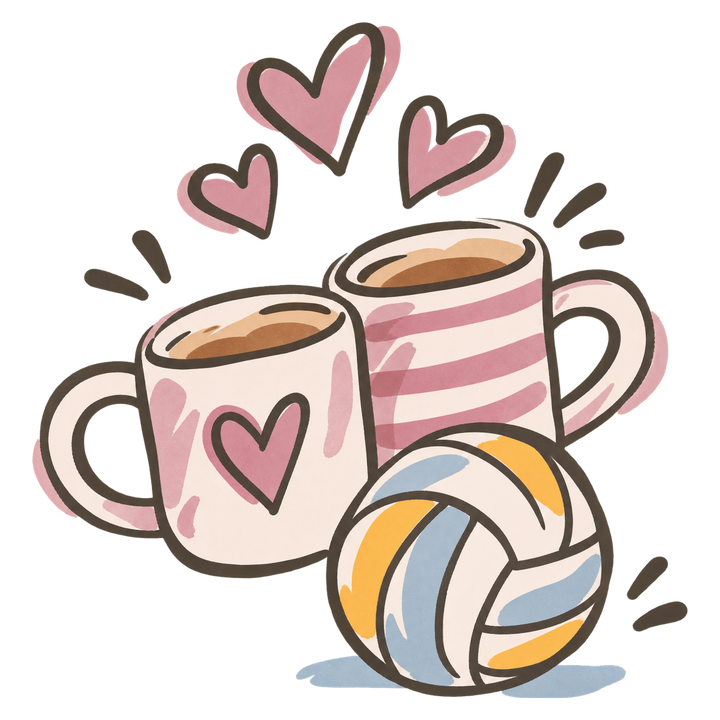
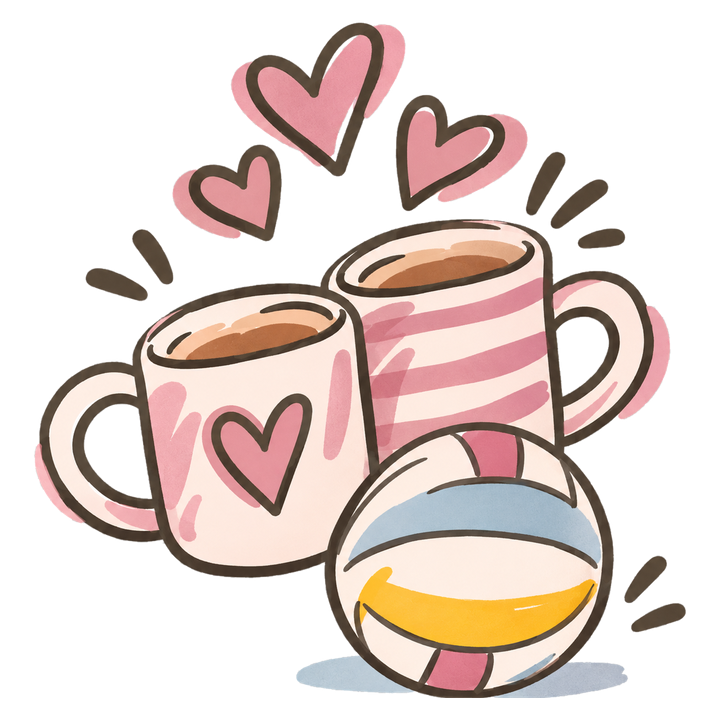
Letzte Illustrationen: Magie & Rituale und Unicorn Space – alle Deck-Karten haben jetzt ein Bild
Claude-Session: https://claude.ai/code/session_0153etfXZ4ZJ4eYpqE3t9jxu

diff --git a/docs/prompts.md b/docs/prompts.md
@@ -1,138 +1,8 @@
 # Illustrations-Prompts
 
-9 Prompts, je einer pro Karte, fertig zum Kopieren. Schick sie im selben ChatGPT-Chat wie die bisherigen Illustrationen, damit der Stil gleich bleibt.
+0 Prompts, je einer pro Karte, fertig zum Kopieren. Schick sie im selben ChatGPT-Chat wie die bisherigen Illustrationen, damit der Stil gleich bleibt.
 
 - Speichere jede Grafik am besten unter der Kartennummer, z. B. **H2.png** – dann kann ich sie ohne Raten zuordnen.
 - Schick sie mir gesammelt, gern kategorienweise.
 - Wenn eine Grafik nicht passt, einfach im ChatGPT-Chat nachbessern lassen.
 - Die Motive für Self-Care, Freundschaften und Unicorn Space sind persönlich gedacht. Ändere sie gern, bevor du sie abschickst.
-
-## Magie & Rituale (7)
-
-### M2 · Freundschaften (Matthias)
-
-```
-Neue Illustration für unser Kartendeck: „Freundschaften (Matthias)“, Kategorie „Magie & Rituale“.
-
-Motiv: ein Fußball, darüber ein rot-schwarzer Fanschal ohne Wappen, daneben zwei Becher, die anstoßen.
-
-Stil: exakt wie die bisherigen Illustrationen in diesem Chat – Tusche-Linien in warmem Anthrazit (#3A3932), leicht versetzte flächige Farben, gleiche Strichstärke, kleine Bewegungsstriche.
-
-Farben: Akzentfarbe Altrosa (#C77F91) für ausgewählte Flächen, dazu Creme (#FBF1E8) und höchstens eine Nebenfarbe aus Honiggelb (#FEB742), Taubenblau (#AFC4D6) oder Salbeigrün (#A7A471).
-
-Nur die Illustration: keine Karte, kein Rahmen, kein Text, transparenter Hintergrund, quadratisch 1024 × 1024 px.
-```
-
-### M3 · Leanders Geburtstag
-
-```
-Neue Illustration für unser Kartendeck: „Leanders Geburtstag“, Kategorie „Magie & Rituale“.
-
-Motiv: eine Geburtstagstorte mit Kerzen, zwei Luftballons und ein kleines Geschenk.
-
-Stil: exakt wie die bisherigen Illustrationen in diesem Chat – Tusche-Linien in warmem Anthrazit (#3A3932), leicht versetzte flächige Farben, gleiche Strichstärke, kleine Bewegungsstriche.
-
-Farben: Akzentfarbe Altrosa (#C77F91) für ausgewählte Flächen, dazu Creme (#FBF1E8) und höchstens eine Nebenfarbe aus Honiggelb (#FEB742), Taubenblau (#AFC4D6) oder Salbeigrün (#A7A471).
-
-Nur die Illustration: keine Karte, kein Rahmen, kein Text, transparenter Hintergrund, quadratisch 1024 × 1024 px.
-```
-
-### M4 · Regeln & Bildschirmzeit
-
-```
-Neue Illustration für unser Kartendeck: „Regeln & Bildschirmzeit“, Kategorie „Magie & Rituale“.
-
-Motiv: eine Sanduhr neben einem Tablet mit Pause-Symbol.
-
-Stil: exakt wie die bisherigen Illustrationen in diesem Chat – Tusche-Linien in warmem Anthrazit (#3A3932), leicht versetzte flächige Farben, gleiche Strichstärke, kleine Bewegungsstriche.
-
-Farben: Akzentfarbe Altrosa (#C77F91) für ausgewählte Flächen, dazu Creme (#FBF1E8) und höchstens eine Nebenfarbe aus Honiggelb (#FEB742), Taubenblau (#AFC4D6) oder Salbeigrün (#A7A471).
-
-Nur die Illustration: keine Karte, kein Rahmen, kein Text, transparenter Hintergrund, quadratisch 1024 × 1024 px.
-```
-
-### M6 · Spielen & Spaß
-
-```
-Neue Illustration für unser Kartendeck: „Spielen & Spaß“, Kategorie „Magie & Rituale“.
-
-Motiv: ein Brettspiel mit Spielfiguren und zwei Würfeln.
-
-Stil: exakt wie die bisherigen Illustrationen in diesem Chat – Tusche-Linien in warmem Anthrazit (#3A3932), leicht versetzte flächige Farben, gleiche Strichstärke, kleine Bewegungsstriche.
-
-Farben: Akzentfarbe Altrosa (#C77F91) für ausgewählte Flächen, dazu Creme (#FBF1E8) und höchstens eine Nebenfarbe aus Honiggelb (#FEB742), Taubenblau (#AFC4D6) oder Salbeigrün (#A7A471).
-
-Nur die Illustration: keine Karte, kein Rahmen, kein Text, transparenter Hintergrund, quadratisch 1024 × 1024 px.
-```
-
-### M12 · Feiertage & Feste
-
-```
-Neue Illustration für unser Kartendeck: „Feiertage & Feste“, Kategorie „Magie & Rituale“.
-
-Motiv: ein Adventkranz mit vier Kerzen, daneben ein paar Zimtsterne.
-
-Stil: exakt wie die bisherigen Illustrationen in diesem Chat – Tusche-Linien in warmem Anthrazit (#3A3932), leicht versetzte flächige Farben, gleiche Strichstärke, kleine Bewegungsstriche.
-
-Farben: Akzentfarbe Altrosa (#C77F91) für ausgewählte Flächen, dazu Creme (#FBF1E8) und höchstens eine Nebenfarbe aus Honiggelb (#FEB742), Taubenblau (#AFC4D6) oder Salbeigrün (#A7A471).
-
-Nur die Illustration: keine Karte, kein Rahmen, kein Text, transparenter Hintergrund, quadratisch 1024 × 1024 px.
-```
-
-### M13 · Lernen im Alltag
-
-```
-Neue Illustration für unser Kartendeck: „Lernen im Alltag“, Kategorie „Magie & Rituale“.
-
-Motiv: eine Lupe über einem Blatt, daneben ein aufgeschlagenes Buch und ein Reagenzglas.
-
-Stil: exakt wie die bisherigen Illustrationen in diesem Chat – Tusche-Linien in warmem Anthrazit (#3A3932), leicht versetzte flächige Farben, gleiche Strichstärke, kleine Bewegungsstriche.
-
-Farben: Akzentfarbe Altrosa (#C77F91) für ausgewählte Flächen, dazu Creme (#FBF1E8) und höchstens eine Nebenfarbe aus Honiggelb (#FEB742), Taubenblau (#AFC4D6) oder Salbeigrün (#A7A471).
-
-Nur die Illustration: keine Karte, kein Rahmen, kein Text, transparenter Hintergrund, quadratisch 1024 × 1024 px.
-```
-
-### M15 · Partnerschaft & Date Nights
-
-```
-Neue Illustration für unser Kartendeck: „Partnerschaft & Date Nights“, Kategorie „Magie & Rituale“.
-
-Motiv: zwei Weingläser, die anstoßen, eine Kerze und ein kleines Herz.
-
-Stil: exakt wie die bisherigen Illustrationen in diesem Chat – Tusche-Linien in warmem Anthrazit (#3A3932), leicht versetzte flächige Farben, gleiche Strichstärke, kleine Bewegungsstriche.
-
-Farben: Akzentfarbe Altrosa (#C77F91) für ausgewählte Flächen, dazu Creme (#FBF1E8) und höchstens eine Nebenfarbe aus Honiggelb (#FEB742), Taubenblau (#AFC4D6) oder Salbeigrün (#A7A471).
-
-Nur die Illustration: keine Karte, kein Rahmen, kein Text, transparenter Hintergrund, quadratisch 1024 × 1024 px.
-```
-
-## Persönlicher Freiraum (2)
-
-### U1 · Unicorn Space (Katja)
-
-```
-Neue Illustration für unser Kartendeck: „Unicorn Space (Katja)“, Kategorie „Persönlicher Freiraum“.
-
-Motiv: ein kleines, fröhliches Einhorn mit langer, wehender Mähne, umgeben von Funken.
-
-Stil: exakt wie die bisherigen Illustrationen in diesem Chat – Tusche-Linien in warmem Anthrazit (#3A3932), leicht versetzte flächige Farben, gleiche Strichstärke, kleine Bewegungsstriche.
-
-Farben: Akzentfarbe Lavendel (#A99ABD) für ausgewählte Flächen, dazu Creme (#FBF1E8) und höchstens eine Nebenfarbe aus Honiggelb (#FEB742), Taubenblau (#AFC4D6), Salbeigrün (#A7A471) oder Altrosa (#C77F91).
-
-Nur die Illustration: keine Karte, kein Rahmen, kein Text, transparenter Hintergrund, quadratisch 1024 × 1024 px.
-```
-
-### U2 · Unicorn Space (Matthias)
-
-```
-Neue Illustration für unser Kartendeck: „Unicorn Space (Matthias)“, Kategorie „Persönlicher Freiraum“.
-
-Motiv: ein kleines, fröhliches Einhorn mit kurzer, struppiger Mähne, umgeben von Funken.
-
-Stil: exakt wie die bisherigen Illustrationen in diesem Chat – Tusche-Linien in warmem Anthrazit (#3A3932), leicht versetzte flächige Farben, gleiche Strichstärke, kleine Bewegungsstriche.
-
-Farben: Akzentfarbe Lavendel (#A99ABD) für ausgewählte Flächen, dazu Creme (#FBF1E8) und höchstens eine Nebenfarbe aus Honiggelb (#FEB742), Taubenblau (#AFC4D6), Salbeigrün (#A7A471) oder Altrosa (#C77F91).
-
-Nur die Illustration: keine Karte, kein Rahmen, kein Text, transparenter Hintergrund, quadratisch 1024 × 1024 px.
-```
